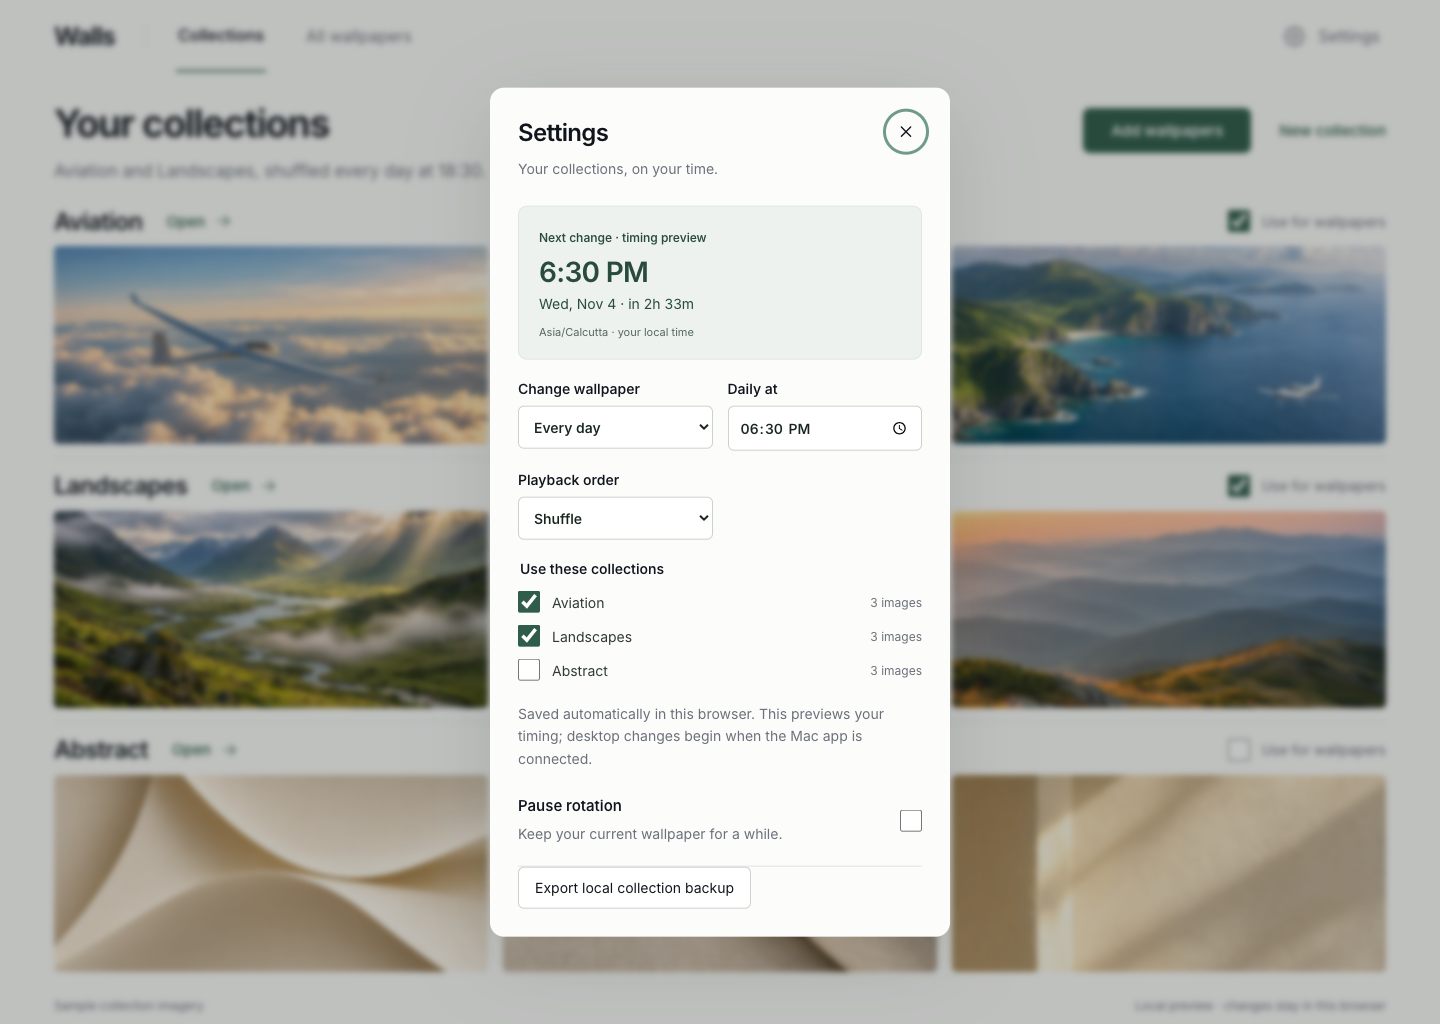
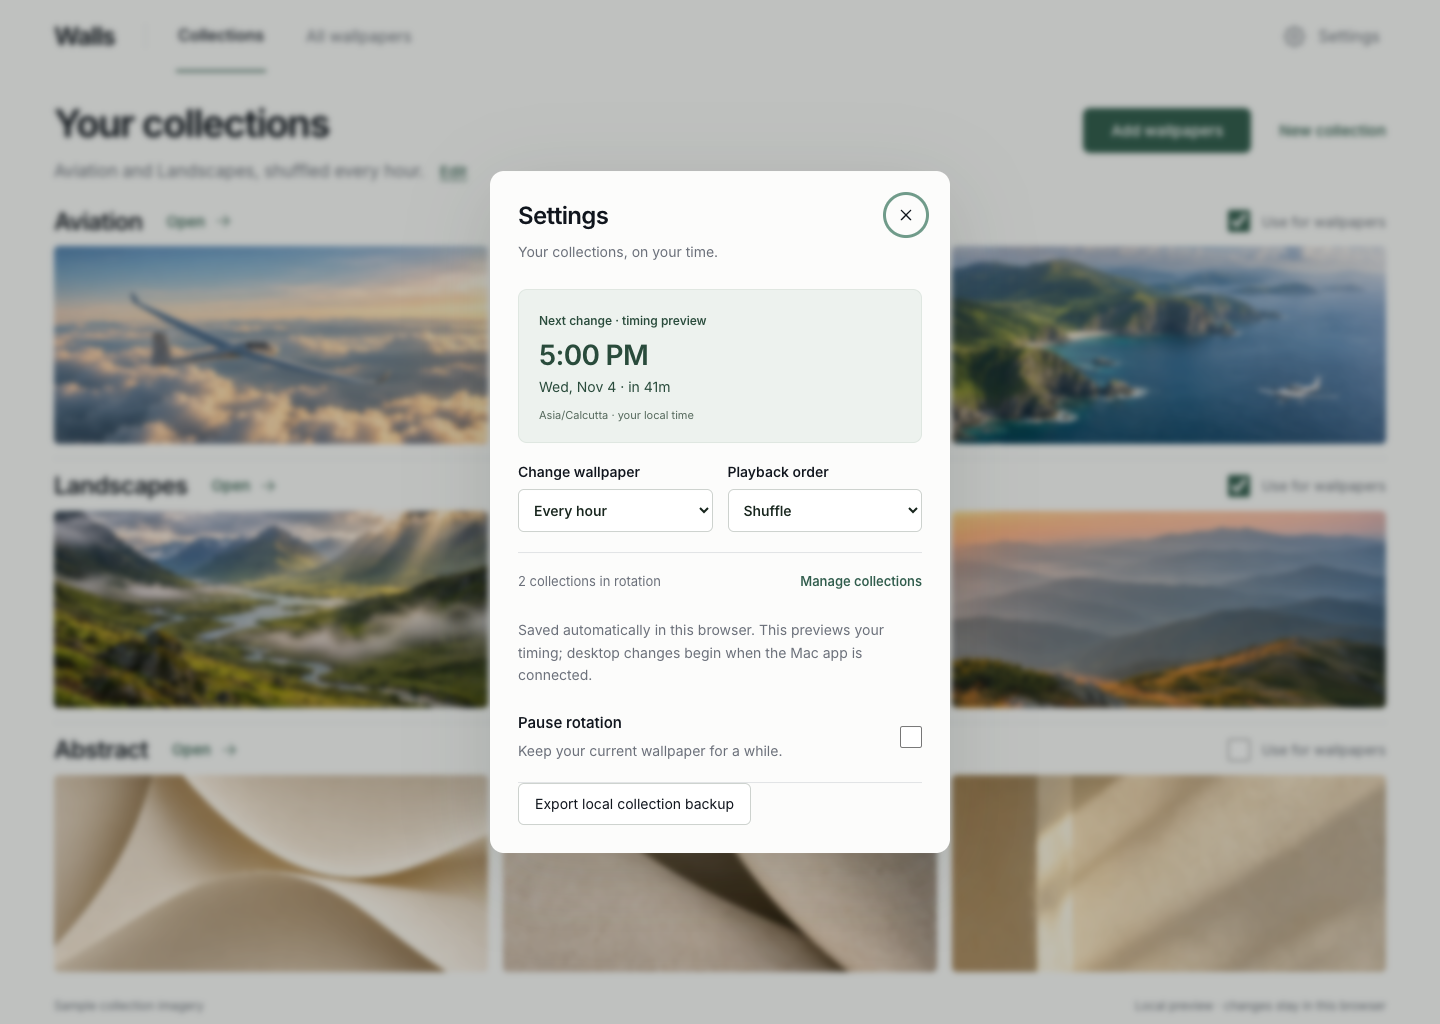
Move collection management out of settings modals

Changed region(s): [[0.3125, 0.0625, 0.6875, 0.75], [0.3125, 0.7812, 0.6875, 0.9375], [0.4688, 0.375, 0.5938, 0.5]]

diff --git a/apps/web/src/RotationControls.jsx b/apps/web/src/RotationControls.jsx
@@ -1,7 +1,8 @@
 import { nextChange } from "./schedule.js";
 
-export function RotationControls({ state, update, toggle, now }) {
+export function RotationControls({ state, update, onManageCollections, now }) {
   const next = nextChange(state, now);
+  const selectedCount = state.collections.filter(c => c.enabled).length;
   const day = next?.toLocaleDateString(undefined, {
     weekday: "short",
     month: "short",
@@ -33,7 +34,7 @@ export function RotationControls({ state, update, toggle, now }) {
             ? "Resume to see your next change."
             : next
               ? `${day} · in ${until}`
-              : "Choose at least one collection with images below."}
+              : "Choose a collection with images on the Collections screen."}
         </p>
         <small>{zone.replaceAll("_", " ")} · your local time</small>
       </section>
@@ -77,21 +78,10 @@ export function RotationControls({ state, update, toggle, now }) {
           </select>
         </label>
       </div>
-      <fieldset className="rotation-collections">
-        <legend>Use these collections</legend>
-        {state.collections.map((c) => (
-          <label className="check option" key={c.id}>
-            <input
-              name="rotation-collection"
-              type="checkbox"
-              checked={c.enabled}
-              onChange={() => toggle(c.id)}
-            />
-            {c.name}
-            <span className="collection-count">{c.images.length} images</span>
-          </label>
-        ))}
-      </fieldset>
+      <div className="rotation-source-summary">
+        <span>{selectedCount === 0 ? "No collections selected" : `${selectedCount} collection${selectedCount === 1 ? "" : "s"} in rotation`}</span>
+        <button className="text-button" onClick={onManageCollections}>Manage collections</button>
+      </div>
       <p className="hint">
         Saved automatically in this browser. This previews your timing; desktop
         changes begin when the Mac app is connected.

diff --git a/apps/web/src/App.jsx b/apps/web/src/App.jsx
@@ -535,12 +535,17 @@ export function App() {
         open={modal === "rotation"}
         onClose={() => setModal(null)}
         title="Your wallpaper rhythm"
-        description="Choose your folders. We’ll take it from here."
+        description="Set a rhythm that suits your day."
       >
         <RotationControls
           state={state}
           update={update}
-          toggle={toggle}
+          onManageCollections={() => {
+            setModal(null);
+            setTab("collections");
+            setCollection(null);
+            setQuery("");
+          }}
           now={now}
         />
         <div className="dialog-actions">
@@ -628,7 +633,12 @@ export function App() {
         <RotationControls
           state={state}
           update={update}
-          toggle={toggle}
+          onManageCollections={() => {
+            setModal(null);
+            setTab("collections");
+            setCollection(null);
+            setQuery("");
+          }}
           now={now}
         />
         <div className="setting-row">

diff --git a/apps/web/src/styles.css b/apps/web/src/styles.css
@@ -646,13 +646,8 @@ main > .image-grid {
 .rotation-fields .field {
   margin: 0 0 20px;
 }
-.rotation-collections {
-  margin: 0 0 16px;
-  max-height: 190px;
-  overflow: auto;
-}
-.collection-count {
-  margin-left: auto;
-  font-size: 12px;
-  color: var(--muted);
-}
+
+
+.rotation-source-summary {display:flex;align-items:center;justify-content:space-between;gap:12px;border-top:1px solid var(--line);padding:10px 0;font-size:13px;color:var(--muted)}
+.rotation-source-summary .text-button {font-size:13px;white-space:nowrap}
+@media(max-width:380px){.rotation-source-summary{align-items:flex-start;flex-direction:column;gap:0}}

diff --git a/docs/12-design-brief.md b/docs/12-design-brief.md
@@ -53,3 +53,5 @@ Use Motion for React for restrained interaction transitions, with shared tokens 
 The first implemented UI slice is a responsive React prototype based on the combined reference, with sample data and working navigation, upload affordance, folder selection, rotation sheet, and subtle motion. Clearly distinguish simulated local interactions from real server/native integration. Verify the chosen screen plus empty/error/loading states in a browser before connecting the backend.
 
 Settings refinement: the owner requested next scheduling and timing controls. The prototype now includes a single next-change preview/countdown and a daily-at time, alongside shared folder/order/frequency controls. This daily time choice updates the earlier default-only plan; there is still no future queue or calendar editor. Server/native timing contracts remain future integration work.
+
+Modal scope correction: Settings and Edit show a compact selected-collection count plus Manage collections navigation. Folder membership is managed on the main Collections screen through its existing wallpaper toggles; no ever-expanding collection list belongs inside a modal.

diff --git a/apps/web/design-qa.md b/apps/web/design-qa.md
@@ -39,3 +39,5 @@ P3: independently generated image crops and the navigation underline position di
 ## Settings timing refinement
 
 User requested fuller Settings plus next scheduling/time controls. Settings now uses the same RotationControls component as Edit, with one next-change preview, countdown, local timezone, daily-at input, collection selection, and pause. Checked daily 18:30 updates next time to 6:30 PM; pause replaces countdown; reload restores daily time. At 390 × 844 dialog width is 358 px with no horizontal overflow and internal scrolling. Screenshots: qa/settings-desktop.png and qa/settings-mobile.png. No new browser console errors. Five schedule tests and four packaging tests pass; production build passes. Local timing does not apply wallpapers on macOS.
+
+Modal collection scope: removed expanding collection checklists from Settings and Edit. Verified compact count plus Manage collections closes the dialog and returns to Your collections. Desktop evidence refreshed in qa/settings-desktop.png; prior mobile Settings capture documents the earlier list layout and is superseded for collection selection. Build passes.

diff --git a/apps/web/README.md b/apps/web/README.md
@@ -13,3 +13,5 @@ The nine JPG wallpapers in `public/wallpapers` are generated illustrative conten
 QA evidence and visual comparison are in `qa/` and `design-qa.md`. Keep the local preview open during iteration. Publishing and infrastructure work are separate delivery steps.
 
 Settings now shares rotation controls with Edit and shows the next-change timing preview, countdown, timezone, collection inclusion, pause, and a daily-at time. Interval previews align to the next local whole hour or three-hour clock boundary; daily previews follow browser-local wall time. The persisted dailyTime field are frontend-only until the server/native contract is extended. Run `npm test` for six timing tests, including DST and month boundaries.
+
+Collection membership is managed on the main Collections screen. Settings/Edit show only a bounded count and Manage collections link, so dialog height does not grow with library size.

diff --git a/apps/web/AGENTS.md b/apps/web/AGENTS.md
@@ -15,3 +15,5 @@ Use the combined compact collection-shelf reference in ../../docs/design/collect
 Settings now includes frequency/order/collection controls, a daily-at time, and next-change timing preview. This user-requested daily time supersedes the earlier no-time-picker default. Keep one next-change summary, not a future queue. Distinguish local timing preview from actual native wallpaper application.
 
 Hourly preview changes happen on whole local hours; three-hour previews use 00:00/03:00/06:00/etc. Do not offset them by the time the app was opened or configured. Daily changes use the user-selected time.
+
+Collection management belongs on the main Collections screen. Settings/Edit dialogs show only a fixed-size selected-count summary and Manage collections link; never render an expanding collection checklist inside a modal. This supersedes the earlier inline collection controls in Settings.
